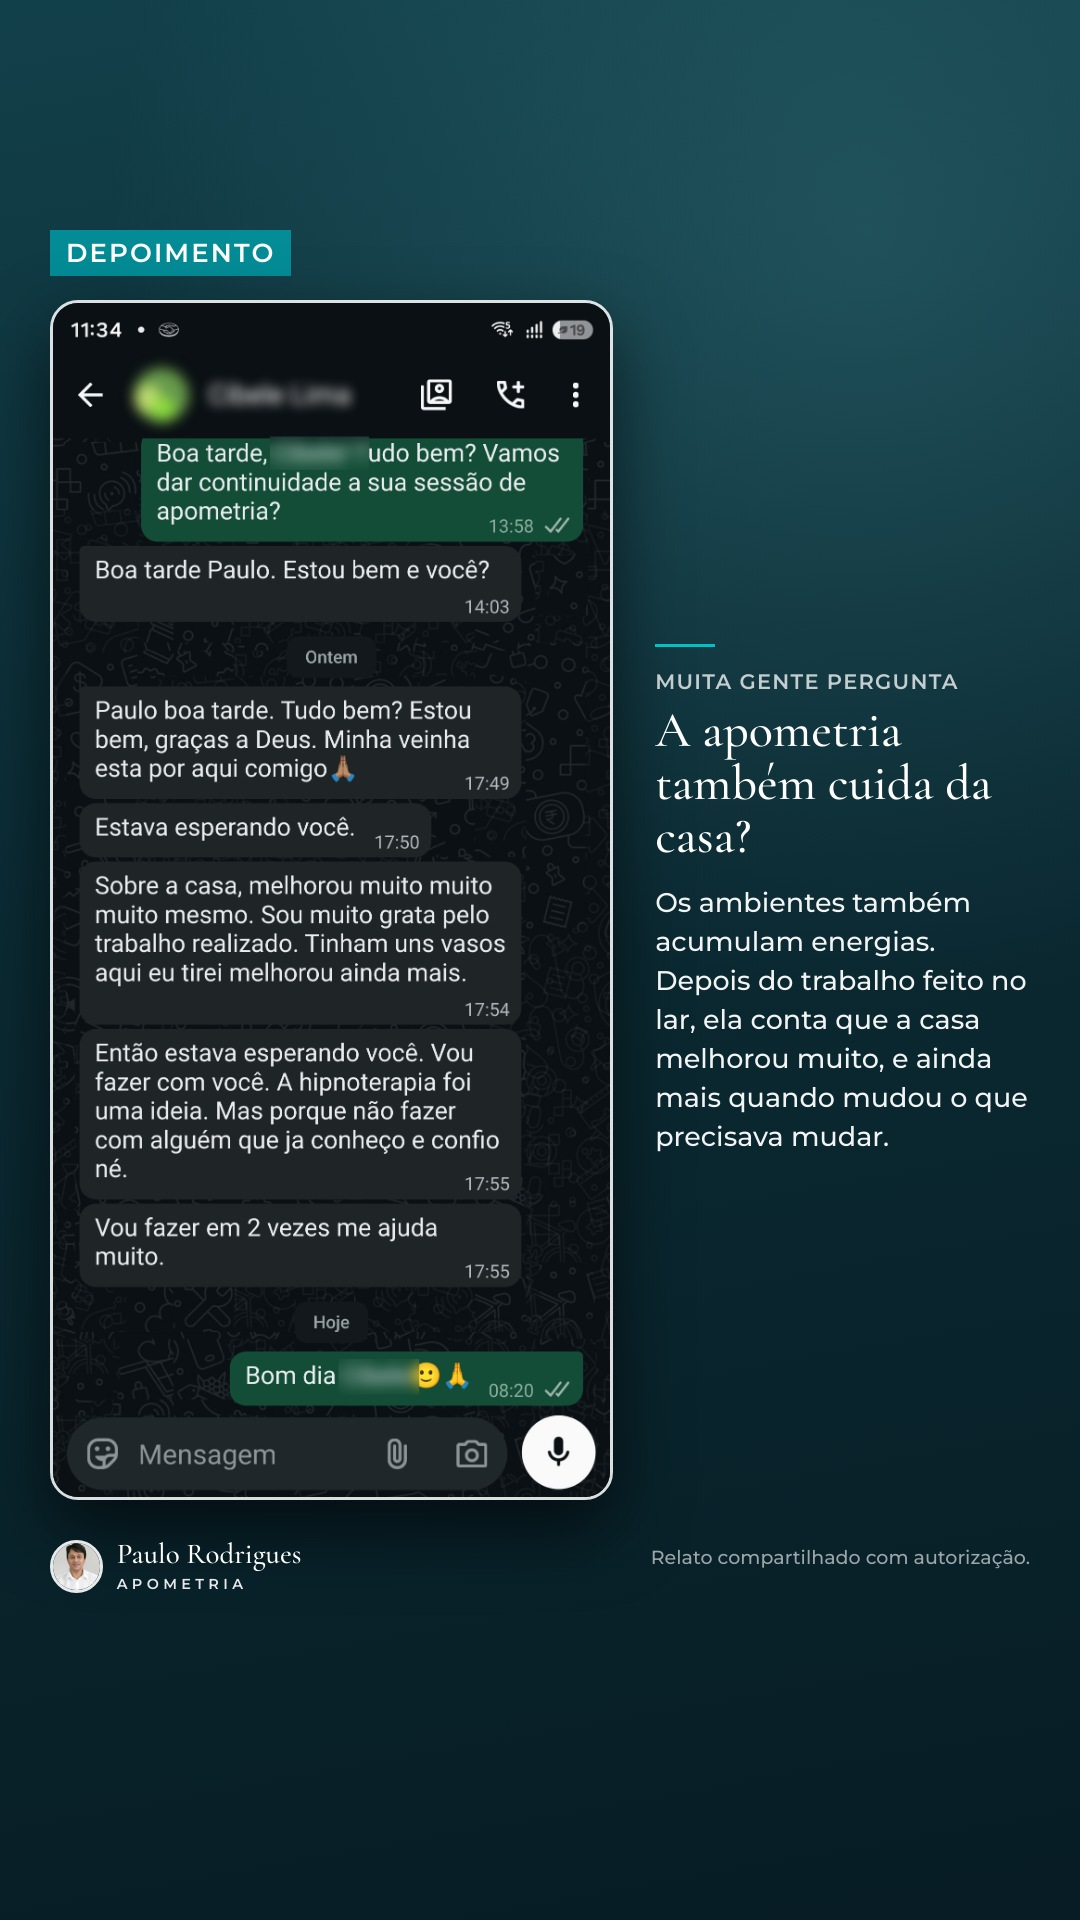
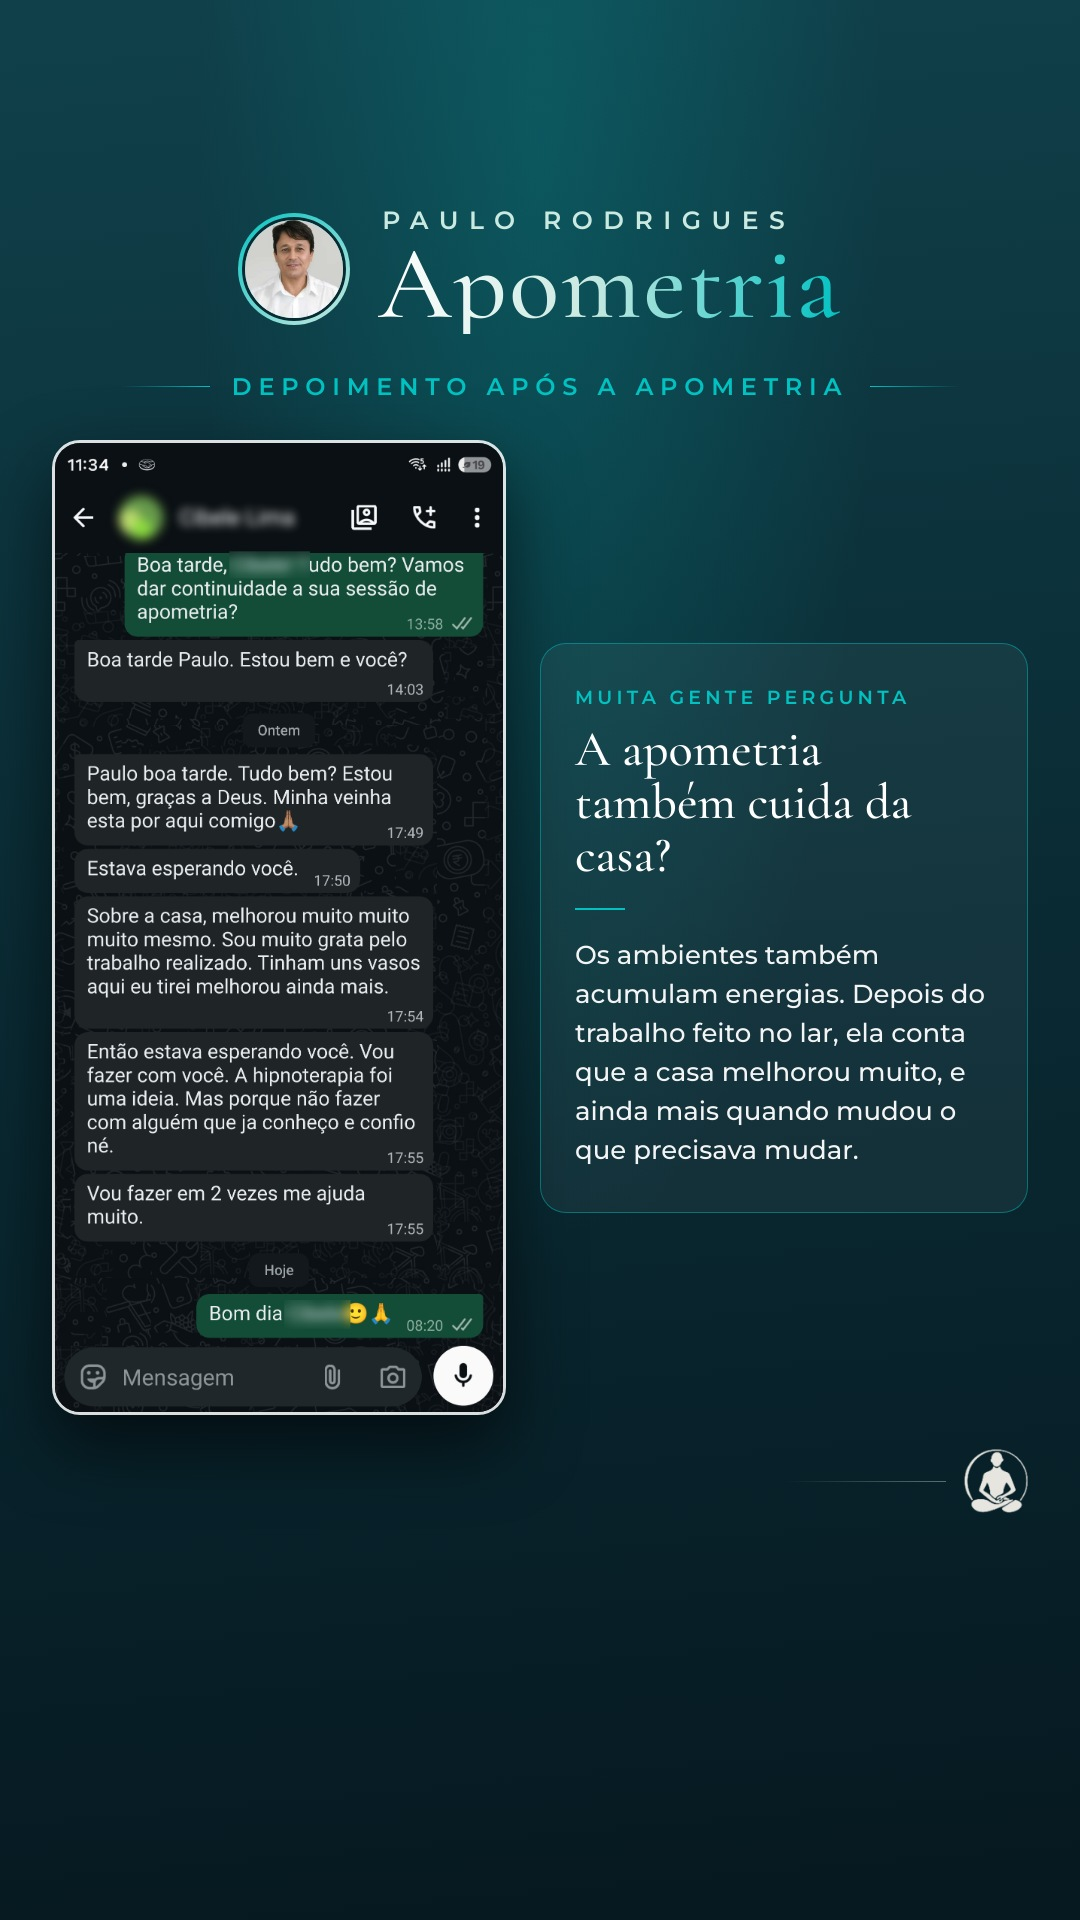
Depoimentos: estilo final com símbolo no rodapé à direita; 5 stories prontos
Claude-Session: https://claude.ai/code/session_01JEWNugGqZtfRNNpR6FEnd2

diff --git a/modelos/remotion/src/DepoimentoAP.tsx b/modelos/remotion/src/DepoimentoAP.tsx
@@ -73,12 +73,14 @@ export const DepoimentoAP: React.FC<PropsAP> = ({pasta, fontes, foto, simbolo, v
         </div>
       </div>
 
-      {/* Rodapé com símbolo (só quando não há a linha do Instituto) */}
-      {!vinculo && !selo && <div style={{position: 'absolute', top: 1490, left: 0, right: 0, display: 'flex', justifyContent: 'center', alignItems: 'center', gap: 20}}>
-        <div style={{width: 120, height: 1, background: 'rgba(202,233,225,0.35)'}} />
-        <Img src={arq(simbolo)} style={{width: 58, height: 58, opacity: 0.9}} />
-        <div style={{width: 120, height: 1, background: 'rgba(202,233,225,0.35)'}} />
-      </div>}
+      {/* Rodapé: só o símbolo da Apometria Brasil, à direita */}
+      {!vinculo && !selo && (
+        <div style={{position: 'absolute', top: (440 + H) + 34, right: 52, display: 'flex', alignItems: 'center', gap: 18}}>
+          <div style={{width: 160, height: 1, background: 'linear-gradient(90deg, rgba(202,233,225,0), rgba(202,233,225,0.4))'}} />
+          <Img src={arq(simbolo)} style={{width: 64, height: 64, opacity: 0.92}} />
+        </div>
+      )}
+
       {/* Selo redondo do Instituto, no canto do print */}
       {selo && (() => {
         const R = 92, top = (vinculo ? 505 : 440) + H - R - 6, left = 52 + W - R + 6;

diff --git a/producoes/depoimentos/LEIA-ME.md b/producoes/depoimentos/LEIA-ME.md
@@ -1,13 +1,18 @@
 # Depoimentos (stories) · Paulo Rodrigues · Apometria
 
-Modelo: composição `DepoimentoWA`, modo `junto` (decisão de 24/11): **print original do WhatsApp inteiro** (moldura do app à mostra, é o que dá veracidade) à esquerda; à direita "Muita gente pergunta", a objeção e um comentário curto que a responde com base no que a pessoa disse. Rótulo "DEPOIMENTO". Assinatura Paulo Rodrigues · Apometria. Aviso: "Relato compartilhado com autorização."
+Modelo atual: composição `DepoimentoAP` (25/11/2026), props em `modelos/remotion/out/depo-ap.props.json`.
+- Topo: foto do Paulo + "PAULO RODRIGUES" + **Apometria** em destaque (degradê branco → menta → turquesa).
+- Etiqueta alternada: "Depoimento após a Apometria" / "Relato depois da Apometria".
+- **Print original do WhatsApp inteiro** à esquerda (moldura do app = veracidade). Nomes de clientes dentro das mensagens borrados.
+- Comentário num cartão separado à direita: "Muita gente pergunta" + objeção + resposta baseada no que a pessoa disse.
+- Rodapé: só o símbolo da Apometria Brasil, à direita. Sem aviso de autorização, sem selo.
 
-Nomes dos clientes **dentro das mensagens** são borrados (além do cabeçalho, que já vem borrado). Antes de publicar: autorização por escrito do cliente. Não usar o da Thais. Frequência: a cada 2 dias.
+Antes de publicar: autorização por escrito do cliente. Não usar o da Thais. Frequência: a cada 2 dias.
 
-| # | Print | Objeção |
-|---|---|---|
-| 1 | relatorios.png | Dá para perceber alguma mudança? |
-| 2 | maria-equipe.png (nome borrado) | Uma sessão resolve tudo? |
-| 3 | sandra1.png (nome borrado) | Como saber o que foi feito à distância? |
-| 4 | raquel1.png (nome borrado) | Dá para confiar num trabalho espiritual? |
-| 5 | cibele.png (nomes borrados) | A apometria também cuida da casa? |
+| # | Print | Etiqueta | Objeção |
+|---|---|---|---|
+| 1 | relatorios.png | Depoimento após a Apometria | Dá para perceber alguma mudança? |
+| 2 | maria-equipe.png | Relato depois da Apometria | Uma sessão resolve tudo? |
+| 3 | sandra1.png | Depoimento após a Apometria | Como saber o que foi feito à distância? |
+| 4 | raquel1.png | Relato depois da Apometria | Dá para confiar num trabalho espiritual? |
+| 5 | cibele.png | Depoimento após a Apometria | A apometria também cuida da casa? |

diff --git a/marcas/apometria-brasil/aprendizados.md b/marcas/apometria-brasil/aprendizados.md
@@ -41,3 +41,4 @@ Os agentes leem este arquivo antes de criar.
 - 24/11/2026 · Depoimentos: rótulo só "DEPOIMENTO" (não "depoimento real"); sem "cada pessoa tem o seu processo"; borrar nomes de clientes dentro das mensagens; formato atual = print e comentário na mesma imagem.
 - 25/11/2026 · Depoimentos v2 (`DepoimentoAP`): sem aviso de autorização; "Paulo Rodrigues / Apometria" em destaque no topo (Apometria grande, em degradê branco→menta→turquesa); etiqueta "Depoimento após a Apometria" ou "Relato depois da Apometria"; comentário em cartão separado do print; símbolo da Apometria Brasil pequeno no rodapé. Tom sério, nada infantil.
 - 25/11/2026 · Depoimentos: o vínculo com o Instituto vai como **selo redondo** (símbolo dentro de anel com "INSTITUTO APOMETRIA BRASIL") no canto inferior direito do print, não como linha de texto.
+- 25/11/2026 · Depoimentos: sem selo e sem linha "Terapeuta do Instituto"; apenas o símbolo da Apometria Brasil no rodapé, à direita.
